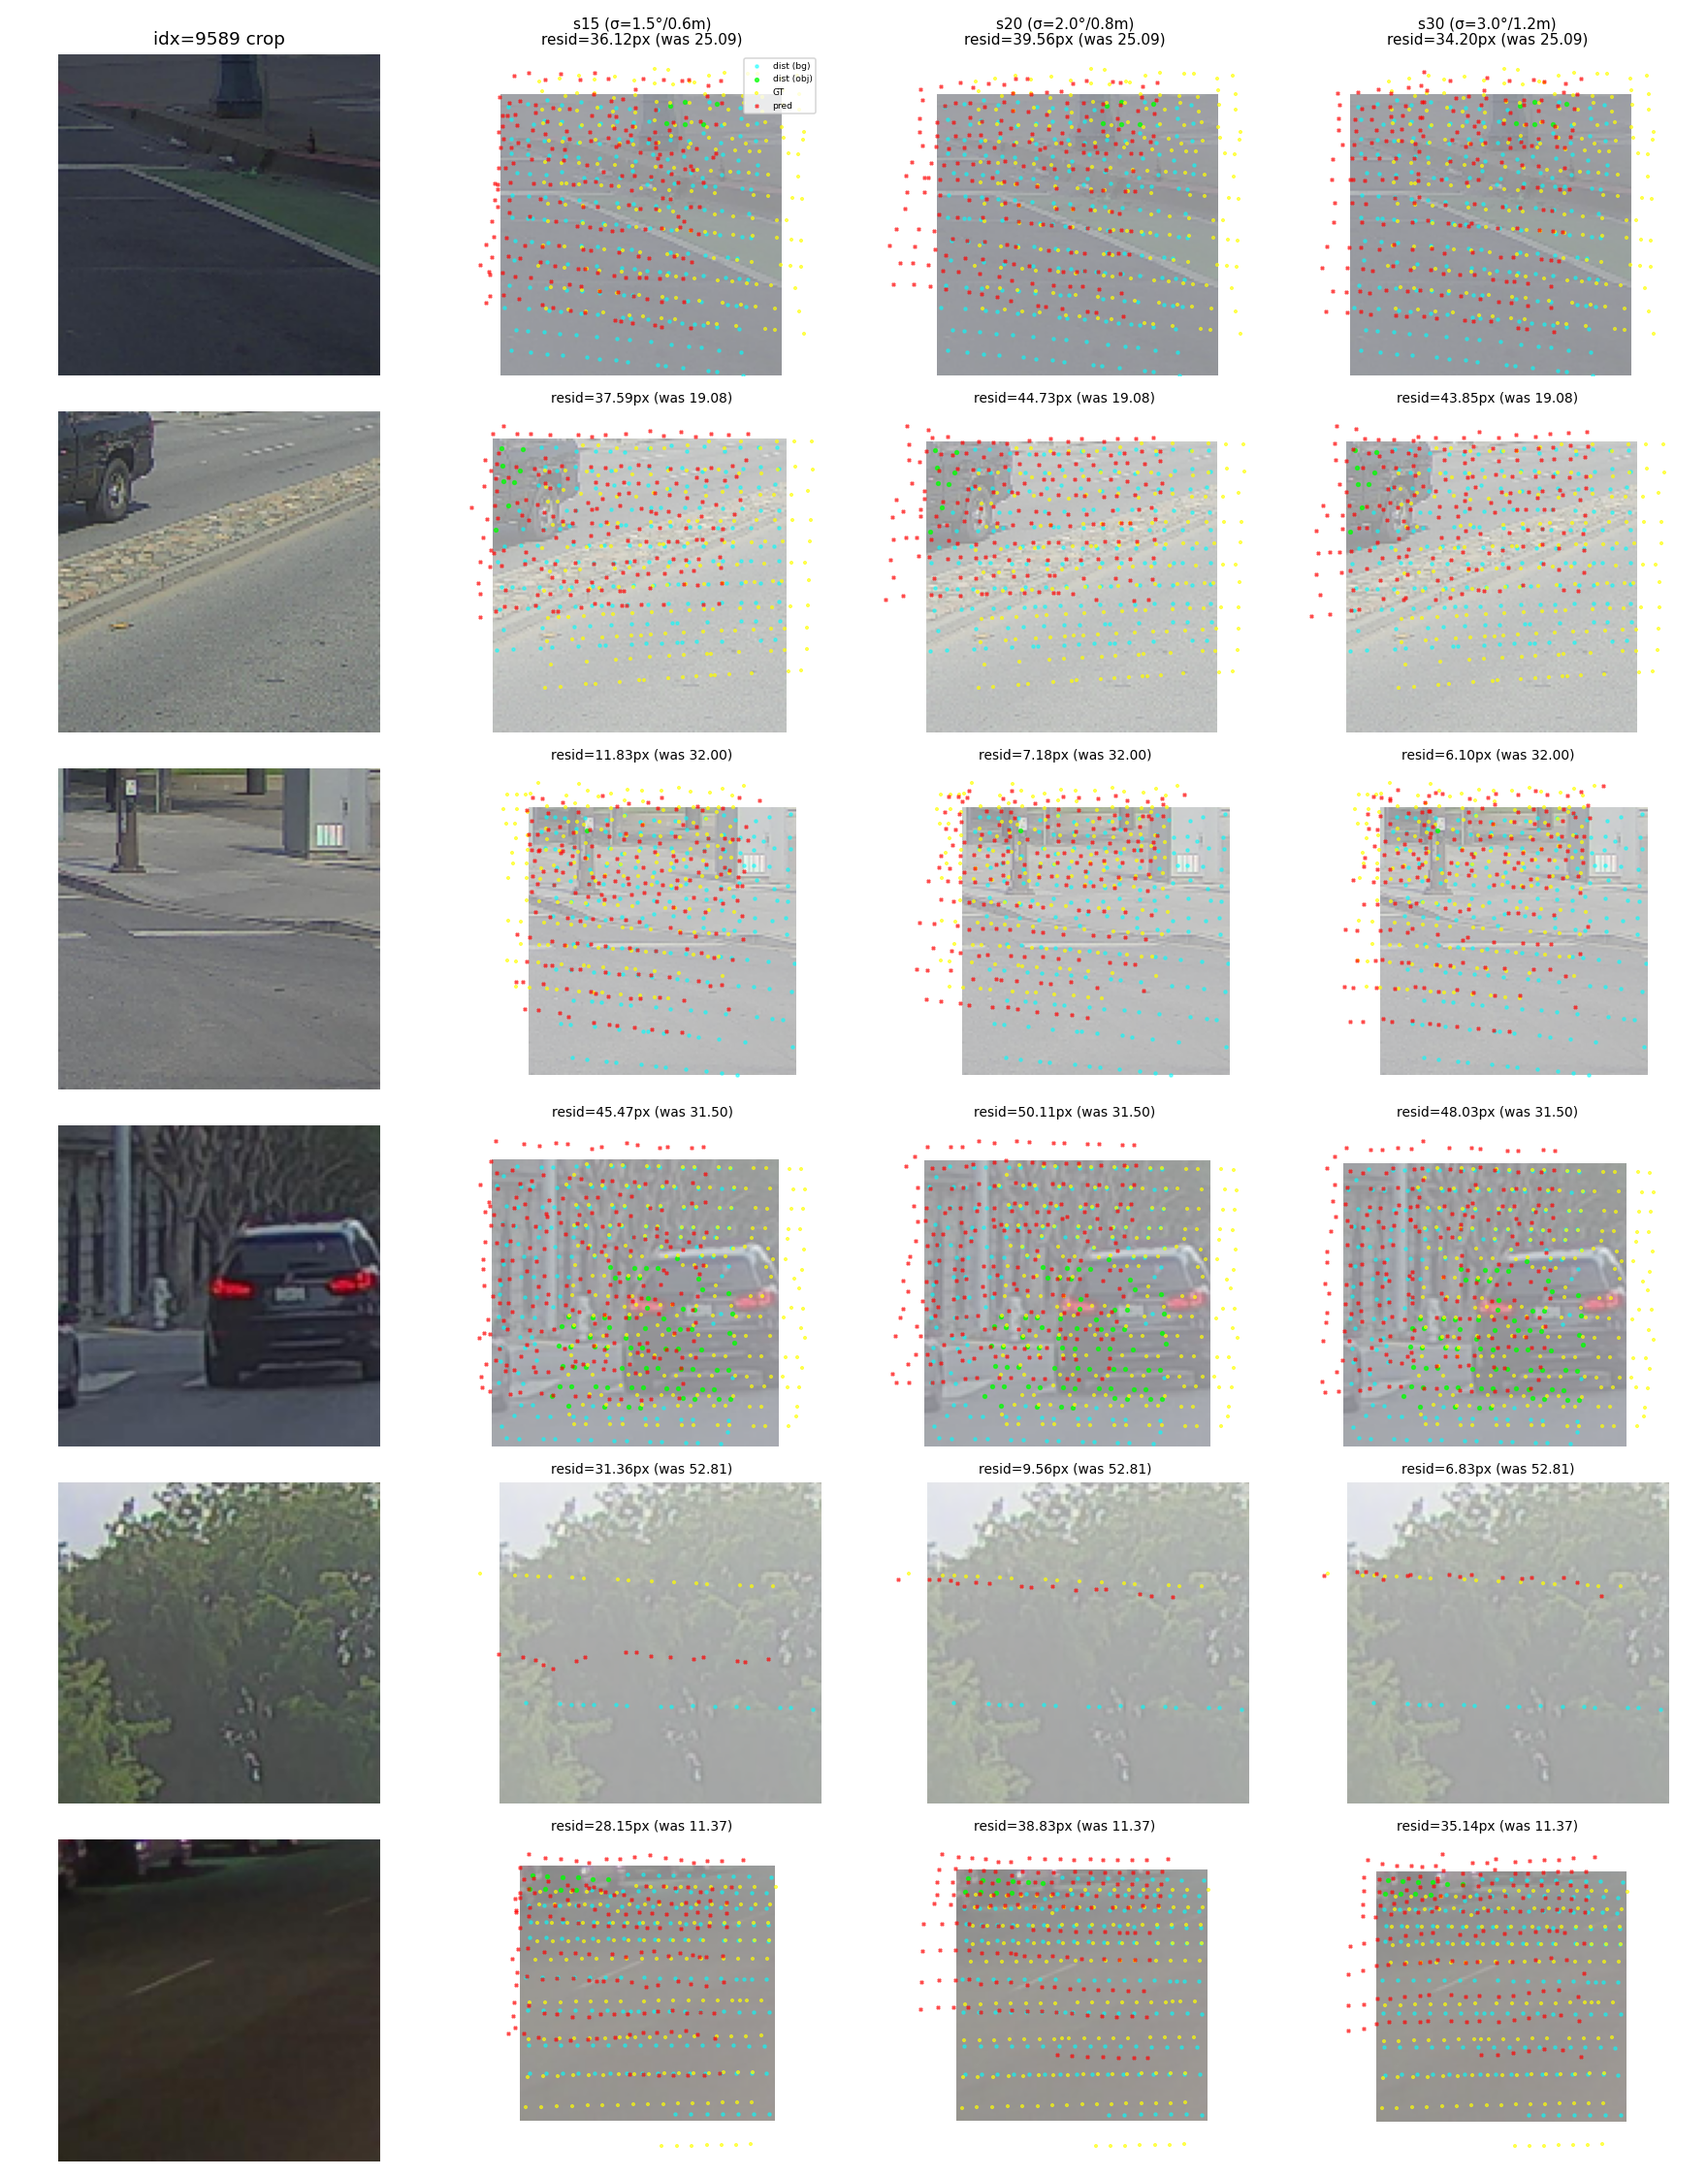
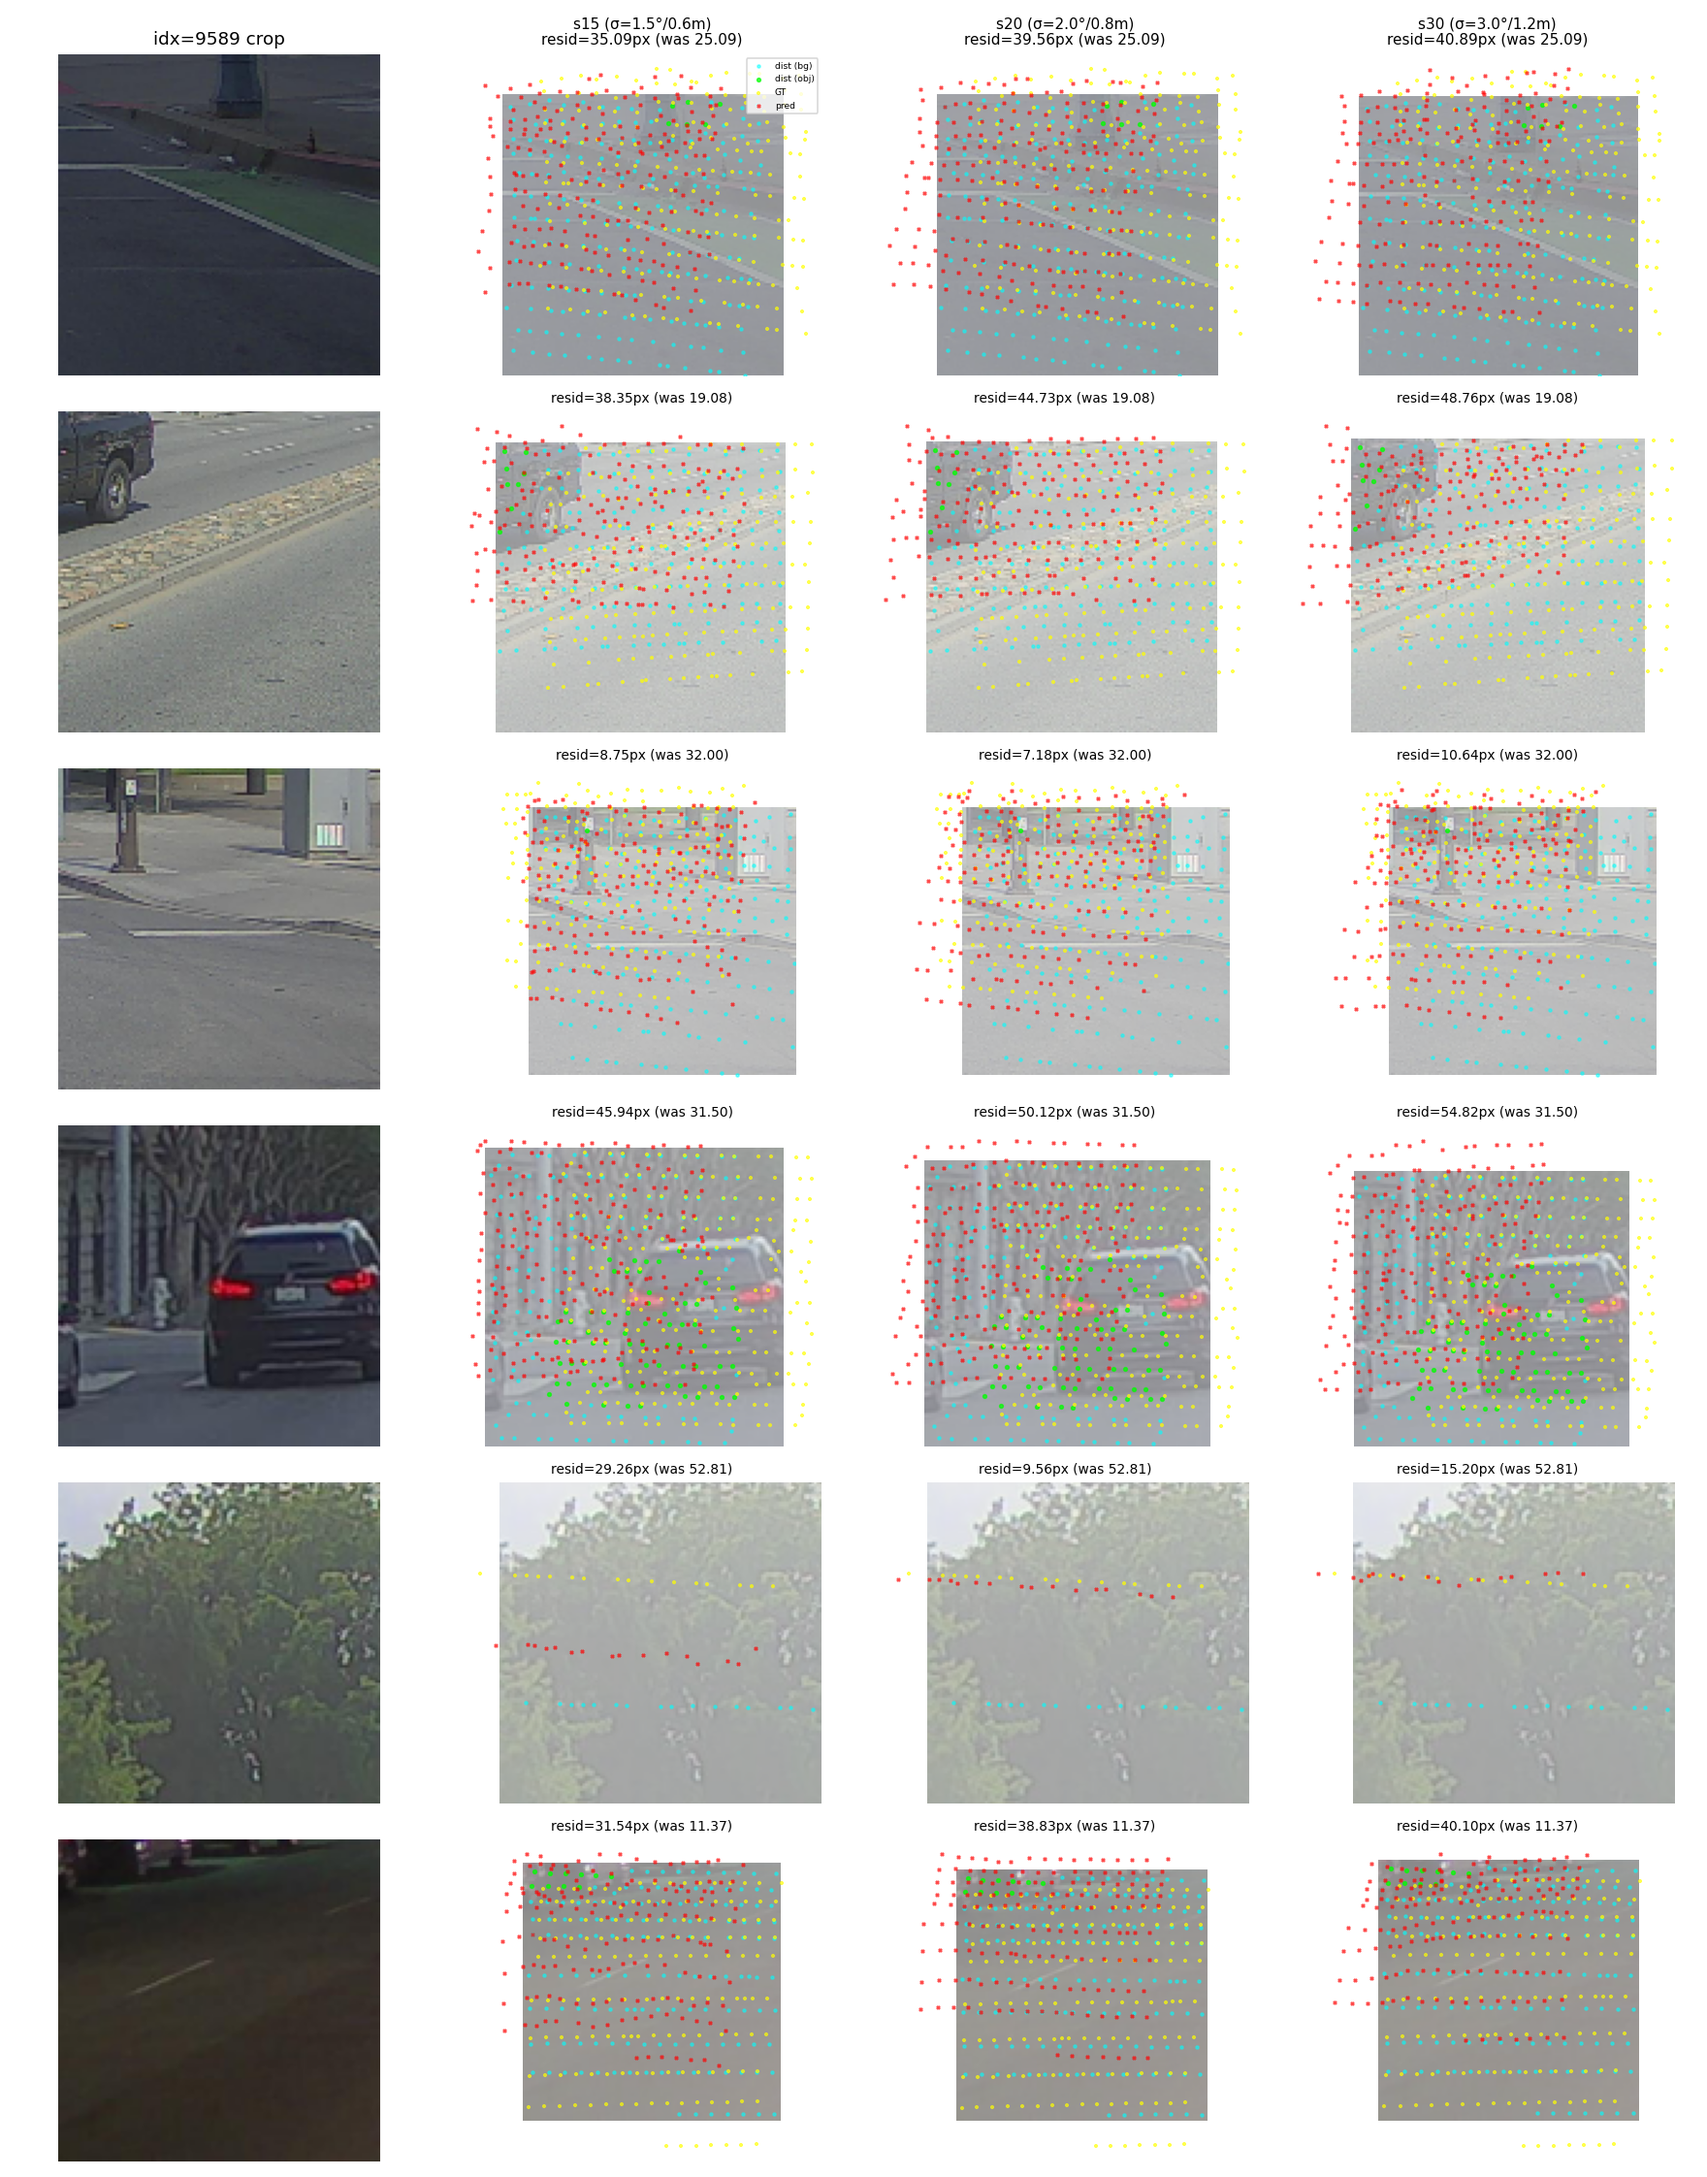
docs(σ-sweep): final 100ep report — s20 best 1.562, s30 1.602, s15 1.643; σ=2.0 sweet spot

diff --git a/docs/ps_sigma_sweep_report.md b/docs/ps_sigma_sweep_report.md
@@ -7,76 +7,83 @@
 - sigma sweep の差は `--rot-deg / --t-m` のみ:
   - s15 → ±1.5° / ±0.6 m
   - s20 → ±2.0° / ±0.8 m
-  - s30 → ±3.0° / ±1.2 m  (進行中、ep14 まで)
+  - s30 → ±3.0° / ±1.2 m
 
-**ClearML:**
-- s15: id `2fc3c978` (completed)
-- s20: id `89e0ced2` (completed)
-- s30: id `6ab5564b` (in_progress, ep14/100)
+**ClearML (3 runs all completed):**
+- s15: id `2fc3c978`
+- s20: id `89e0ced2`
+- s30: id `6ab5564b`
 
-## val_nll 推移
+## val_nll 推移 (100ep 完走)
 
 | ep | s15 | s20 | s30 |
 |---:|---:|---:|---:|
-| 1 | 5.330 | 4.597 | 4.874 |
-| 5 | 4.462 | 3.902 | 3.996 |
+|  1 | 5.330 | 4.597 | 4.874 |
+|  5 | 4.462 | 3.902 | 3.996 |
 | 10 | 3.574 | 3.335 | 3.416 |
-| 20 | 2.958 | 2.910 | — |
-| 30 | 2.794 | 2.460 | — |
-| 40 | 2.313 | 2.402 | — |
-| 50 | 2.243 | 2.104 | — |
-| 60 | 2.055 | 1.904 | — |
-| 70 | 1.891 | 1.786 | — |
-| 80 | 1.808 | 1.671 | — |
-| 90 | 1.696 | 1.585 | — |
-| **100** | **1.678** | **1.562** | (走行中) |
+| 20 | 2.958 | 2.910 | 2.998 |
+| 30 | 2.794 | 2.460 | 2.728 |
+| 40 | 2.313 | 2.402 | 2.346 |
+| 50 | 2.243 | 2.104 | 2.167 |
+| 60 | 2.055 | 1.904 | 1.995 |
+| 70 | 1.891 | 1.786 | 1.838 |
+| 80 | 1.808 | 1.671 | 1.685 |
+| 90 | 1.696 | 1.585 | 1.637 |
+| **100** | **1.678** | **1.562** | **1.602** |
 
 ## MSE-px 内訳 (last epoch)
 
 | | nll | mse_all | obj_mean | obj_med | obj_p95 | bg_med |
 |---|---:|---:|---:|---:|---:|---:|
-| s15 100ep | 1.678 | 2.265 | 1.757 | 1.221 | 5.004 | 1.714 |
-| **s20 100ep** | **1.562** | **2.254** | 1.783 | **1.183** | 5.258 | **1.571** |
-| s30 (ep14) | 3.100 | 4.342 | 3.967 | 2.973 | 10.407 | 3.348 |
+| s15 100ep | 1.643 | 2.265 | 1.757 | 1.221 | 5.004 | 1.714 |
+| **s20 100ep** | **1.562** | 2.254 | 1.783 | **1.183** | 5.258 | **1.571** |
+| s30 100ep | 1.602 | 2.302 | 1.799 | 1.198 | 5.538 | 1.570 |
 
-## 考察
+best val_nll は s20 で **1.562**、s30 が **1.602** で 2.5% 後退、s15 は **1.643** で最低。
 
-1. **NLL で s20 win、MSE では tied**:
-   - nll: s20 1.562 < s15 1.678 (7% 改善)
-   - mse_all: 2.254 ≈ 2.265 (差 0.5%、誤差範囲)
-   - **NLL の差は MSE じゃなく σ-calibration 由来** (NLL = log σ + (resid/σ)² / 2)
-
-2. **bg で s20 が一段良い**:
-   - bg_med: s20 **1.571** vs s15 1.714 (**9% 改善**)
-   - 大きい train σ → bg lidar の幅広 alignment scenario → calibration 締まる
-
-3. **obj は mixed**:
-   - obj_med: s20 1.183 < s15 1.221 (s20 わずかに win)
-   - obj_p95: s20 5.258 > s15 5.004 (s15 win、tail 強い)
-   - 大きい train σ で obj outlier (動的物体?) tail が伸びる cost
-
-4. **arch は σ 1.5-2.0 robust**:
-   - 軌道ほぼ重なる、後半でわずかに s20 リード
-   - σ ablation はこれで終了、**σ=2.0 を stage 1 baseline 確定**
-
-5. **s30 (ep14)**:
-   - 序盤遅れて見えるが過大 σ なので妥当、収束は ep30+
-   - ETA 完走まで ~1h、σ ceiling 確認
-
-## 次
-
-- **stage 1 hybrid KV (`--frustum-dense`) を σ=2.0 で 100ep 走らせる**: dense LiDAR-map + UV emb + DA/regular hybrid CA。s20 baseline 1.562 と同等以上に収束するか
-- target val_nll: **≤ 1.56** が hybrid KV 採用ライン
-- それ以下なら stage 2 (mixed Q) → stage 3 (UV-only Q) へ進める
-
-## Learning curves
+## 学習曲線
 
 ![](assets/sigma_compare/learning_curves.png)
 
-s20 (赤) が訓練・val 両方で一貫して s15 (青) より下を走る。s30 (緑、ep14 まで) はまだ序盤、収束待ち。
+- 訓練・val 両方で **s20 (赤) が一貫してリード**、特に ep30+ で他の 2 σ から離れる
+- s15 (青) と s30 (緑) は ep70+ でほぼ重なる軌道 — **σ 不足 (s15)** と **σ 過剰 (s30)** が同程度の cost
+- val 後半の oscillation は σ=1.5/3.0 の方が大きい (perturbation 範囲の広さで variance 増)
 
-## Sample-level prediction compare (best model each)
+## サンプル比較 (同 val idx に各 σ best モデルを推論)
 
 ![](assets/sigma_compare/sample_compare.png)
 
-各 row = 同じ val sample。col1 = crop、col2-4 = s15/s20/s30 の予測 (cyan=distorted, lime=obj-distorted, yellow+ = GT, red× = pred)。各 panel に "resid (was)" として「予測後の残差 / 摂動直後の残差」を px で表示。s30 はまだ training 進行中なので残差大きい。
+col1 = crop、col2-4 = s15/s20/s30 の予測。
+- cyan = distorted (perturbation 後 LiDAR uv)
+- lime = obj-distorted
+- yellow+ = GT (perturbation 無し LiDAR uv)
+- red× = model 予測
+
+各 panel の "resid (was)" は予測後の平均残差 / 摂動直後の残差 [px]。
+
+## 考察
+
+1. **σ=2.0 が sweet spot**:
+   - val_nll: s20 (1.562) < s30 (1.602) < s15 (1.643)
+   - σ aug が effective dataset variation を増やす効果と、σ が過剰になると optimization 難化の trade-off
+   - s15 (under-perturb) → easy regime に偏って汎化弱、s30 (over-perturb) → tail 暴れて calibration 緩む
+
+2. **NLL の差は σ-calibration 由来** (MSE はほぼ tied):
+   - mse_all: s15 2.265 / s20 2.254 / s30 2.302 — 差 ≤2%
+   - bg_med: s20=s30=1.57、s15=1.71 → bg は **σ≥2.0 で同質**、s15 だけ undertrained
+   - σ aug の主効果は **bg calibration 締め**
+
+3. **obj は σ 増で tail が伸びる**:
+   - obj_p95: s15 5.004 < s20 5.258 < s30 5.538
+   - 動的物体 + 大摂動で残差 outlier が伸びる cost、s30 で最も顕著
+   - obj_med は σ で改善 (s15 1.221 → s20 1.183 → s30 1.198)、median は OK だが p95 で痛む
+
+4. **arch は σ=1.5-3.0 で robust**:
+   - val_best 1.56-1.64 の狭いレンジに収束
+   - perturbation magnitude の絶対値より、bg calibration の改善幅 (σ aug ボーナス) が支配的
+   - σ ablation は **σ=2.0 を baseline 確定** で終了
+
+## 次
+
+- **stage 1 hybrid KV (`--frustum-dense`) を σ=2.0 で 100ep**: dense LiDAR-map + UV emb + DA/regular hybrid CA を s20 baseline (1.562) と比較、frame token 移行への必須前提
+- frame token / cross-frame の curriculum は `project_uvemb_query_curriculum` (memory) 参照
